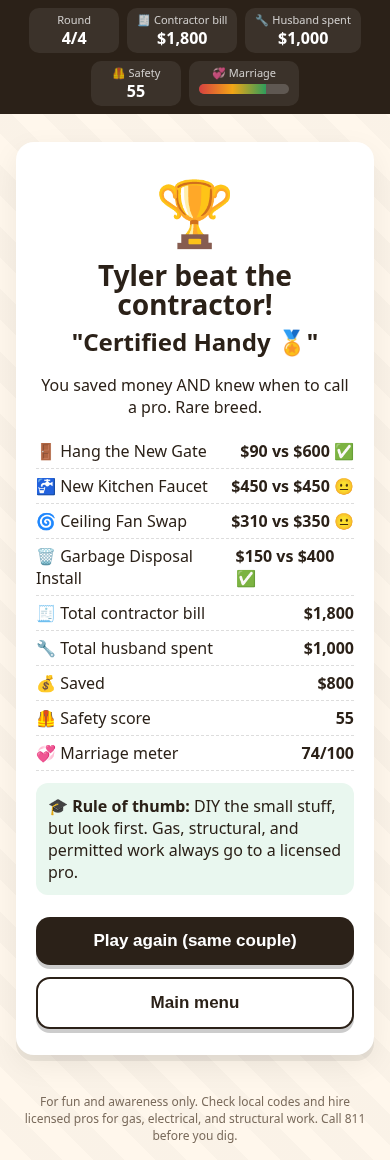
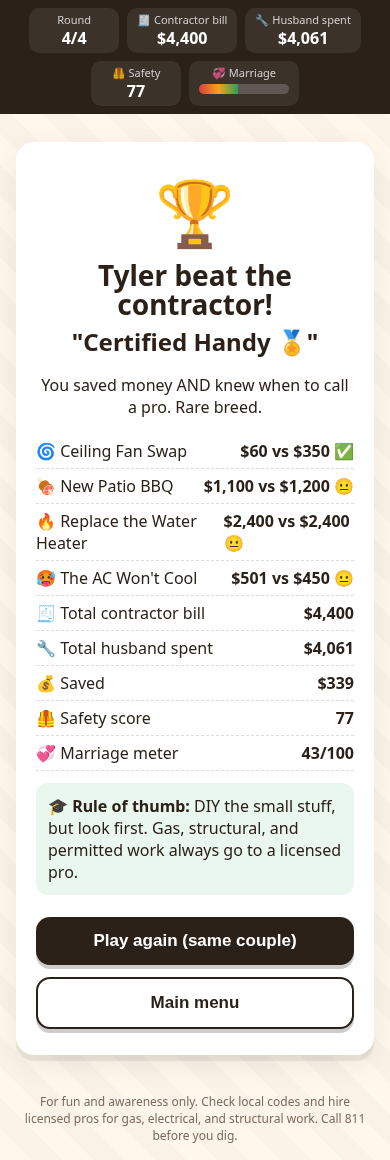
Step-by-step decision chains, AC scenario, recap order, timer wording fix

diff --git a/js/scenarios.js b/js/scenarios.js
@@ -1,83 +1,161 @@
-// Scenario cards: add more by appending objects. best: "diy" | "split" | "pro"
+// Scenario cards. Each job is a chain of steps in chronological order.
+// step: {q, ok:[text, cost, note], bad:[[text, cost, marriage, safety, feedback, fatal?]], proEnd?:true, noBail?:true}
+// proEnd: the right answer is to hand off to a pro. Diagnosis cuts the bill by `credit`.
 window.SCENARIOS = [
 {id:"drywall",em:"🕳",title:"Patch the Hallway Hole",request:"Babe, can you get someone to patch that hole in the hallway wall? The doorknob finally won.",
- quote:650,diyCost:40,splitPro:300,best:"split",
+ quote:650,
  hidden:"The drywall is damp. A slow pipe leak behind the wall has been soaking it.",
  secret:"Our water bill jumped $40 last month and nobody's been taking longer showers.",
  hint:"Something about that wall smells... off.",
  spots:[{l:"Around the hole",c:"A brown ring stain spreading out from the hole.",t:"real"},{l:"Sniff test",c:"Musty, basement-y smell. You don't have a basement.",t:"real"},{l:"Doorknob",c:"The doorknob looks smug. Not helpful.",t:"joke"},{l:"Paint can",c:"Leftover paint is a perfect match. Very tempting.",t:"herring"}],
- plans:["Cut, patch, mud, sand, paint. Done by dinner.","Find the leak first, let it dry, then patch.","Cover it with a big framed photo of the wife."],goodPlan:1,
+ steps:[
+  {q:"Tools out. What's first?",ok:["Look closely at the stain and press on the wall around the hole",0],bad:[["Cut a clean square and screw in a patch",40,-5,0,"You patched it, and the new patch is already soaking up water."],["Paint over the stain so it matches",30,-5,0,"The stain bleeds right back through by dinner."]]},
+  {q:"The wall feels damp and soft. Next?",ok:["Turn off every faucet and check whether the water meter is still moving",0],bad:[["Point a fan at it and patch tomorrow",20,-5,0,"It dried overnight... and was wet again by morning."],["Smash the wall open wider with a hammer",80,-10,-5,"Big mess, and you still don't know where the water's coming from."]]},
+  {q:"Everything's off, but the meter's leak dial is still spinning. Next?",ok:["Call a plumber to find and fix the leak",300,"pro part"],bad:[["Ignore it. It's a slow leak.",0,-10,-10,"Slow leaks turn into mold and rot. She can smell it now."],["Cut into the wall and solder the pipe yourself",150,-10,-10,"You've never soldered. Now there are two leaks."]],noBail:true},
+  {q:"The plumber fixed the leak. Next?",ok:["Let the wall dry out completely and cut out any moldy drywall",15],bad:[["Patch over it right away. It's fine.",40,-5,-5,"Wet drywall under fresh mud means bubbles and mold."]]},
+  {q:"Dry and clean. Last step?",ok:["Patch, tape, mud, sand, and paint",40],bad:[["Fill the big hole with spackle only",10,-5,0,"Spackle cracks and sinks on a hole that big. Redo."],["Hang a big framed photo over it",0,-10,0,"She knows. She always knows."]]}
+ ],
  good:"You call a plumber for the leak and patch the wall yourself once it's dry. Smooth, dry, and cheap.",
  fail:"The fresh patch bubbles and sags overnight. A mushroom sprouts from it. The kids name him Gary.",
  lesson:"Water stains and musty smells mean find and fix the leak before you patch. Patching over a leak just hides mold."},
+
 {id:"bbq",em:"🍖",title:"New Patio BBQ",request:"I bought us a fancy new grill for the patio! Can you get someone to set it up before Sunday?",
- quote:1200,diyCost:60,splitPro:1200,best:"pro",
+ quote:1200,credit:100,
  hidden:"It's a natural-gas-only grill, and there's no gas line out to the patio.",
  secret:"The box says \"NG\" in big letters. I don't know what that means but it looked important.",
  hint:"The fitting on the hose looked kinda weird to me.",
  spots:[{l:"The box label",c:"\"NATURAL GAS ONLY. Not for use with propane.\"",t:"real"},{l:"Patio wall",c:"No gas stub anywhere on the back of the house.",t:"real"},{l:"Old propane tank",c:"Half full! ...but the fitting doesn't match the grill.",t:"herring"},{l:"The neighbor",c:"Neighbor offers a beer and \"advice.\" Decline both.",t:"joke"}],
- plans:["Rig an adapter so it runs off the propane tank.","Run your own gas pipe from the water heater.","Duct tape plus a garden hose. Confidence."],goodPlan:-1,
- good:"You call a licensed gas plumber. They pull a permit, run the line, and leak-test it. Sunday burgers are safe and legal.",
- fail:"The adapter hisses. Your wife evacuates the cul-de-sac. The fire department leaves you a pamphlet and a look.",
- lesson:"Gas lines always mean a licensed pro and a permit. Never convert or rig gas appliances yourself. Smell gas? Leave and call 911 or your gas company."},
+ steps:[
+  {q:"Box is open. What's first?",ok:["Read the label and manual to see what fuel it needs",0],bad:[["Assemble everything first and figure out fuel later",0,-3,0,"Two hours in, and you still don't know what it runs on."],["Hook it to the old propane tank",0,-20,-30,"The fitting doesn't match, so you force it. Hiss. Gas leak!",true]]},
+  {q:"It says \"Natural gas only.\" Next?",ok:["Check the back of the house for a gas outlet near the patio",0],bad:[["Order an adapter online so propane fits",30,-5,-15,"Adapters don't change what fuel a grill burns. That's how fires start."],["Shut off the gas meter just in case",0,-5,-5,"Now the water heater and stove are off too. Cold showers for everyone."]]},
+  {q:"There's no gas line anywhere near the patio. Next?",ok:["Look up whether this model comes in a propane version, and check the return policy",0],bad:[["Run a long hose from the kitchen stove",0,-25,-40,"Indoor gas pipes are not extension cords. Evacuate.",true],["Buy a generic hose and guess",30,-5,-10,"Mismatched gas fittings leak. Don't guess with gas."]]},
+  {q:"You can return it for propane, or get a gas line run. Decide:",ok:["Call a licensed plumber to run a permitted gas line, or return it for a propane model",0],bad:[["Tee into the dryer's gas line with a long flex hose",0,-25,-40,"DIY gas plumbing. The fire department would like a word.",true],["Leave it in the box until Sunday and hope",0,-10,0,"Sunday comes. Still no gas. Guests get cold sandwiches."]],proEnd:true,noBail:true}
+ ],
+ good:"You figured out exactly what's needed. The licensed plumber quotes it without a diagnostic visit, pulls a permit, runs the line, and leak-tests it.",
+ fail:"Hiss. Your wife evacuates the cul-de-sac. The fire department leaves you a pamphlet and a look.",
+ lesson:"Gas lines always mean a licensed pro and a permit. Never rig or convert gas fittings. Smell gas? Leave and call 911 or your gas company."},
+
 {id:"heater",em:"🔥",title:"Replace the Water Heater",request:"The water heater's ancient and the shower keeps going cold. Can we get a new one put in?",
- quote:2400,diyCost:900,splitPro:2400,best:"pro",
+ quote:2400,
  hidden:"The raised wooden platform it sits on is rotted. A full tank weighs about 500 lb.",
  secret:"When I was getting the holiday bins down, the platform kind of... wobbled.",
  hint:"The garage has been creaking more than usual.",
  spots:[{l:"Platform wood",c:"Dark, soft wood. Your screwdriver sinks right in.",t:"real"},{l:"Floor under it",c:"Old drip stains and a little puddle.",t:"real"},{l:"Model sticker",c:"Made the year you graduated. Respect.",t:"joke"},{l:"Hardware store ad",c:"\"Install it yourself in 2 hours!\" Sure.",t:"herring"}],
- plans:["Drop the new tank on the old platform. It held so far.","Shim the platform with some scrap 2x4s.","Strap the tank to the wall and pray."],goodPlan:-1,
- good:"You call a pro. They rebuild the platform to hold the weight, then install, vent, and permit the new heater.",
- fail:"The new tank leans like the Tower of Pisa. The cat refuses to enter the garage ever again.",
- lesson:"Anything holding a lot of weight has to be solid first. Water heater installs usually need a permit (gas, venting, earthquake straps), so this one goes to a pro."},
+ steps:[
+  {q:"Before touching anything, what first?",ok:["Turn the heater's gas valve to OFF and close the cold water supply valve",0],bad:[["Start unhooking the water pipes",150,-15,-10,"No shutoff. Hot water sprays all over the garage."],["Flip the garage light breaker off",0,-3,-5,"Wrong thing. A gas heater is still on gas."]]},
+  {q:"Gas and water are off. Next?",ok:["Hook a hose to the drain valve, run it outside, and drain the tank",0],bad:[["Tip the tank over to dump it",100,-10,-10,"Forty gallons of rusty water. The cat has left the chat."],["Skip draining. Just muscle it out.",80,-10,-10,"A full tank weighs about 500 lb. Your back has filed a complaint."]]},
+  {q:"Tank's drained. Who disconnects the gas and vent?",ok:["Have a licensed plumber disconnect the gas line and vent and pull the old tank (permit)",400,"pro part"],bad:[["Unscrew the gas line yourself with a pipe wrench",0,-15,-25,"Gas connections are licensed-pro work. You get a stern lecture and a do-over."],["Leave the gas line hooked up and wiggle the tank out",0,-20,-35,"You bend the gas connector. Hiss. Everybody out.",true]],noBail:true},
+  {q:"Old tank is out. The platform is soft and rotted. Next?",ok:["Tear it out and rebuild it solid enough for 500+ lb (or have the pro do it)",180],bad:[["Shim the old platform with scrap 2x4s",30,-10,-30,"The new tank leans like the Tower of Pisa.",true],["Set the new tank right on the old platform",0,-10,-30,"Crunch. The platform folds.",true]]},
+  {q:"New platform is solid. Install time:",ok:["Licensed plumber sets the tank, connects gas and vent, adds earthquake straps, and leak-tests",1100,"pro part"],bad:[["Connect it yourself to save money",0,-15,-25,"Gas plus venting plus a permit is not a weekend project. Do-over."],["Reuse the old flex gas connector to save $20",0,-10,-20,"Old gas connectors can crack. Pros install new ones. Do-over."]],noBail:true},
+  {q:"Installed. Turning it back on:",ok:["Fill the tank with water first (open a hot faucet until it runs steady), then light it per the instructions",0],bad:[["Light it right away, then fill it",300,-10,-10,"Firing an empty tank cooks it. New tank, new problem."]]}
+ ],
+ good:"You did the safe, easy parts yourself (shutoffs, draining, rebuilding the platform) and paid a pro for the gas work. Hot showers are back.",
+ fail:"Crunch. The new tank leans like the Tower of Pisa. The cat refuses to enter the garage ever again.",
+ lesson:"Shut off gas and water first. Anything holding a lot of weight has to be solid. Gas and venting connections, plus the permit, belong to a licensed plumber."},
+
 {id:"fan",em:"🌀",title:"Ceiling Fan Swap",request:"The bedroom is SO hot. Can someone swap that old light for a ceiling fan?",
- quote:350,diyCost:60,splitPro:250,best:"diy",
+ quote:350,
  hidden:"The ceiling box is a light-only plastic box. It can't hold a spinning fan.",
  secret:"The old light was super light. Like, I lifted it with one finger.",
  hint:"I bet that ceiling box is older than us.",
  spots:[{l:"Ceiling box",c:"Small plastic box. No \"rated for fan support\" marking.",t:"real"},{l:"Fan box",c:"Instructions: \"Mount only to a fan-rated box.\"",t:"real"},{l:"Wall switch",c:"Works great. Also has a sticker of a dinosaur.",t:"joke"},{l:"Wire colors",c:"They look normal, which feels like the whole story. It isn't.",t:"herring"}],
- plans:["Hang it on the existing box. It's only a few pounds.","Breaker OFF, install a fan-rated brace box, then hang the fan.","Leave the power on so you can see what you're doing."],goodPlan:1,
+ steps:[
+  {q:"Ladder's set up. First?",ok:["Turn off that circuit's breaker at the panel",0],bad:[["Just flip the wall switch off",0,-5,-15,"Zap! Switches don't always kill every wire. Go to the breaker."],["Leave the power on so you can see",0,-20,-35,"Live wires and a ladder. Ambulance chase.",true]]},
+  {q:"Breaker's off. Next?",ok:["Check the wires with a non-contact voltage tester",0],bad:[["Touch the wires quickly to check",0,-20,-35,"Never test wires with your fingers.",true],["Trust the breaker label",0,-3,-10,"The label was wrong. Lucky you hesitated."]]},
+  {q:"Confirmed dead. Old light is down. Next?",ok:["Check whether the ceiling box is rated for fan support",0],bad:[["Hang the fan right away",0,-5,-10,"It wobbles hard. Something's not right up there."]]},
+  {q:"The box is plastic, light-only. Next?",ok:["Install a fan-rated brace box between the joists",45],bad:[["Add more screws to the plastic box",5,-10,-30,"The fan helicopters onto the bed.",true],["Hang it anyway and hope",0,-10,-30,"Wobble... wobble... THUD.",true]]},
+  {q:"Fan-rated box is in. Next?",ok:["Wire the fan per its instructions with wire nuts and hang it",15],bad:[["Twist the wires together and tape them",0,-5,-15,"Taped connections come loose and get hot. Redo it with wire nuts."]]},
+  {q:"Last step?",ok:["Breaker back on, test every speed, check for wobble",0],bad:[["Crank it to high and walk away",0,-3,0,"It hums a little. You should've tested it first."]]}
+ ],
  good:"Breaker off, fan-rated brace in, fan hung. It spins quietly with zero wobble. Cool breeze, cooler husband.",
  fail:"The fan wobbles, then gently helicopters onto the bed. Nobody was hurt except your pride.",
  lesson:"Fans need a fan-rated box. Always turn the breaker off and test that the power is off first. Not sure? Call an electrician."},
+
 {id:"faucet",em:"🚰",title:"New Kitchen Faucet",request:"I found the PERFECT faucet online. Can we have a plumber put it in?",
- quote:450,diyCost:70,splitPro:300,best:"diy",
+ quote:450,
  hidden:"The shutoff valve under the sink is corroded and stuck. It could snap off.",
  secret:"There's green crusty stuff on the pipes under the sink. I just closed the cabinet.",
  hint:"Under the sink has been a little... damp?",
  spots:[{l:"Shutoff valve",c:"Green crust. The handle won't budge by hand.",t:"real"},{l:"Cabinet floor",c:"A slow drip has warped the cabinet bottom.",t:"real"},{l:"Old faucet",c:"Hard water has given it a lovely beard.",t:"joke"},{l:"Pliers",c:"\"Just crank the valve harder,\" say the pliers.",t:"herring"}],
- plans:["Crank the stuck valve with pliers and go.","Shut off the main water, replace the bad valve, then install the faucet.","Swap the faucet with the water still on. Fast hands!"],goodPlan:1,
- good:"Main off, new valve in, faucet installed, leak-checked. The sink looks magazine-ready.",
+ steps:[
+  {q:"Under the sink. First?",ok:["Clear out the cabinet and look at the shutoff valves",0],bad:[["Start unscrewing the old faucet",150,-15,-5,"The water was still on. Indoor fountain!"]]},
+  {q:"The shutoff is crusty and won't turn by hand. Next?",ok:["Find the home's main water shutoff and close it",0],bad:[["Crank the valve with big pliers",200,-15,-5,"The valve snaps off. Geyser. She's filming."]]},
+  {q:"Main is off. Next?",ok:["Open the kitchen faucet to drain the lines and relieve pressure",0],bad:[["Cut the supply lines right away",30,-5,0,"Pipe water splashes in your face. Minor, but rude."]]},
+  {q:"Lines are drained. Next?",ok:["Replace the corroded shutoff valves",25],bad:[["Leave the old valves. They're probably fine.",0,-5,-5,"Next time something leaks, you won't be able to shut it off."]]},
+  {q:"New valves are in. Next?",ok:["Remove the old faucet and install the new one per the instructions",15],bad:[["Install the new faucet over the old gasket gunk",20,-5,0,"Drip, drip. Clean the surface and redo it."]]},
+  {q:"Last step?",ok:["Turn the main back on slowly and check every connection for leaks",0],bad:[["Turn the main on and leave for work",120,-10,0,"A tiny drip all day. Hello, warped cabinet."]]}
+ ],
+ good:"Main off, new valves in, faucet installed, leak-checked. The sink looks magazine-ready.",
  fail:"The valve snaps off. Indoor fountain! Your wife films it for the group chat.",
  lesson:"Know where your main shutoff is before any plumbing job. Replace corroded valves first. If anything feels stuck, don't force it."},
+
 {id:"gate",em:"🚪",title:"Hang the New Gate",request:"Can we get the side gate replaced? The dog keeps escaping to visit the neighbors.",
- quote:600,diyCost:90,splitPro:400,best:"diy",
+ quote:600,
  hidden:"The fence post the gate hangs on is rotted at ground level.",
  secret:"The post kinda leans. I've been blaming the dog.",
  hint:"That whole fence line looks tired.",
  spots:[{l:"Post base",c:"The wood crumbles where it meets the dirt.",t:"real"},{l:"Push test",c:"The post rocks back and forth like a loose tooth.",t:"real"},{l:"The dog",c:"Looks guilty. Is innocent (this time).",t:"joke"},{l:"New hinges",c:"Shiny and strong. Problem solved? Nope.",t:"herring"}],
- plans:["Screw the new gate to the old post.","Call 811 to mark utilities, dig and reset the post in concrete, then hang the gate.","Prop it up with a brick."],goodPlan:1,
+ steps:[
+  {q:"New gate's here. First?",ok:["Push on the hinge post and check its base for rot",0],bad:[["Screw the new hinges into the old post",30,-10,-20,"The gate hangs for 3 seconds. Then the fence lies down.",true]]},
+  {q:"The post is rotted at the ground. Before digging?",ok:["Call 811 (free) to get underground utilities marked",0],bad:[["Start digging right away",150,-10,-20,"Your shovel finds the sprinkler line. Could've been worse. Much worse."]]},
+  {q:"Lines are marked, all clear. Next?",ok:["Dig out the old post and its old concrete",0],bad:[["Sink a new post right beside the rotten one",40,-5,0,"Now the gate doesn't line up with anything."]]},
+  {q:"Hole's clear. Next?",ok:["Set a new post in concrete, plumb it, and let it cure",60],bad:[["Backfill with loose dirt",20,-5,-5,"It leans again within a week."],["Hang the gate the same day",20,-5,0,"The concrete wasn't set. Now the post is crooked forever."]]},
+  {q:"Post is cured. Last step?",ok:["Hang the gate, then adjust the hinges and latch",30],bad:[["Hang it and skip the latch",0,-10,0,"The dog escapes again. Then she does."]]}
+ ],
  good:"You call 811, set a new post in concrete, and hang the gate. It swings like butter. The dog is grounded.",
  fail:"The gate hangs fine for 3 seconds. Then the whole fence section lies down for a nap.",
  lesson:"Hardware is only as strong as what it's attached to. Call 811 before you dig so you don't hit buried lines."},
+
 {id:"disposal",em:"🗑",title:"Garbage Disposal Install",request:"I want a garbage disposal. Can we get someone out to install one?",
- quote:400,diyCost:150,splitPro:300,best:"diy",
+ quote:400,
  hidden:"The new disposal's dishwasher knockout plug was never removed.",
  secret:"The dishwasher hose goes right into where the disposal will be.",
  hint:"Read the tiny manual. Just trust me.",
  spots:[{l:"Disposal inlet",c:"A plastic plug blocks the dishwasher inlet.",t:"real"},{l:"Manual p.4",c:"\"Remove knockout plug if connecting a dishwasher.\"",t:"real"},{l:"The sink",c:"Has seen things. Mostly spaghetti.",t:"joke"},{l:"Plumber's putty",c:"You'll need it, but that's not the catch.",t:"herring"}],
- plans:["Hook it all up and run the dishwasher.","Power OFF, knock out the plug, connect it, then test for leaks.","Plug it in and test it with a spoon. For science."],goodPlan:1,
+ steps:[
+  {q:"Box is open. First?",ok:["Make sure the outlet or circuit under the sink is OFF (unplug, or flip the breaker)",0],bad:[["Start working with everything powered",0,-15,-25,"Electricity plus water plus a blender. No.",true]]},
+  {q:"Power's off. Next?",ok:["Disconnect the old sink drain and remove the old strainer",0],bad:[["Mount the disposal under the old strainer",20,-5,0,"Doesn't fit. Take it all apart again."]]},
+  {q:"Drain is open. Next?",ok:["Install the new sink flange with putty and the mounting ring",0],bad:[["Hang the disposal with zip ties",30,-10,-5,"It vibrates loose and drips. Nope."]]},
+  {q:"Mount's ready. Before hooking up the dishwasher?",ok:["Knock out the dishwasher inlet plug and remove the loose piece",0],bad:[["Connect the dishwasher hose as-is",80,-15,0,"The dishwasher can't drain. Soapy flood."]]},
+  {q:"Plug's out. Next?",ok:["Hang the disposal, then connect the drain pipe and dishwasher hose",0],bad:[["Run the dishwasher to test before connecting the drain",100,-15,0,"Water everywhere. Foam party, and nobody was invited."]]},
+  {q:"Last step?",ok:["Restore power, run water, and check every joint for leaks",0],bad:[["Test it with a spoon inside",50,-10,-10,"Ka-CHUNK. RIP spoon. Never put your hand or utensils in there."]]}
+ ],
  good:"Power off, plug knocked out, everything connected and leak-tested. It works perfectly. You are a kitchen god.",
  fail:"The dishwasher floods the kitchen with soapy water. Foam party, and nobody was invited.",
  lesson:"Read the manual and do the small steps. Kill the power before working on anything electrical, and leak-test before you walk away."},
+
 {id:"shed",em:"🛖",title:"Backyard Shed Kit",request:"Can we pay someone to put together that shed kit? It's been in the garage for 6 months.",
- quote:900,diyCost:120,splitPro:600,best:"diy",
+ quote:900,
  hidden:"The spot is sloped and soft, and a sprinkler line is buried right there.",
  secret:"That corner turns into a pond every time it rains.",
  hint:"The lawn guy said not to dig there. Or was it 'dig there'? Hmm.",
  spots:[{l:"Ground",c:"Squishy and slopes downhill. Puddle marks.",t:"real"},{l:"Sprinkler head",c:"Right in the middle of the shed footprint.",t:"real"},{l:"Kit box",c:"\"Level ground required.\" Also 400 screws.",t:"herring"},{l:"Squirrel",c:"Has claimed this land. Will fight.",t:"joke"}],
- plans:["Build it right on the grass. It'll settle.","Mark the lines (call 811), level and compact a base, build it, and anchor it.","Build it on the trampoline for bounce."],goodPlan:1,
+ steps:[
+  {q:"Shed day. First?",ok:["Check the spot: is it level, firm, and well-drained?",0],bad:[["Build it right on the grass",60,-10,-10,"The shed slides 2 feet downhill.",true]]},
+  {q:"It's soft and sloped. Before digging?",ok:["Call 811 and find the sprinkler lines",0],bad:[["Start digging the base",80,-5,-10,"Sprinkler geyser! Also, you got lucky it wasn't a power line."]]},
+  {q:"Lines are marked. Next?",ok:["Lay a compacted, level gravel base (or blocks) away from the lines",120],bad:[["Toss down some plywood to level it",40,-5,-5,"The plywood rots in one season."]]},
+  {q:"Base is level. Next?",ok:["Build the floor frame and check it's level and square",0],bad:[["Start with the walls to see progress",30,-5,0,"Nothing lines up. Take it apart."]]},
+  {q:"Floor is square. Next?",ok:["Put up the walls and roof per the instructions",0],bad:[["Skip the roof bracing pieces",40,-5,-10,"The first windy day says no."]]},
+  {q:"Last step?",ok:["Anchor the shed to the base so wind can't move it",20],bad:[["Skip the anchors. It's heavy.",80,-10,-10,"A windstorm moves it to the neighbor's yard."]]}
+ ],
  good:"You level the base, avoid the sprinkler line, and anchor the shed. It's rock solid. The squirrel concedes.",
  fail:"The shed slides 2 feet downhill. A sprinkler geyser erupts at the grand reveal.",
- lesson:"A level, solid base comes first. Know what's buried before you dig or anchor."}
+ lesson:"A level, solid base comes first. Know what's buried before you dig or anchor."},
+
+{id:"ac",em:"🥵",title:"The AC Won't Cool",request:"It's 98° and the house is an oven! The AC isn't working. Call someone NOW.",
+ quote:450,credit:120,
+ hidden:"The outdoor unit (condenser) keeps tripping its breaker. That points to an electrical or part failure inside, which is HVAC-tech work.",
+ secret:"I heard a loud click outside and then the fan outside stopped.",
+ hint:"Have you even looked at the thermostat?",
+ spots:[{l:"Thermostat",c:"Set to Cool at 72°. Air is blowing inside, but it's warm.",t:"real"},{l:"Outdoor unit",c:"Dead silent. Not humming, not spinning.",t:"real"},{l:"Air filter",c:"A little dusty. Not the main villain today.",t:"herring"},{l:"The dog",c:"Lying on the tile. Judging you.",t:"joke"}],
+ steps:[
+  {q:"House is hot. First?",ok:["Check the thermostat: set to Cool, temp below room temp, batteries good",0],bad:[["Buy a new thermostat",60,-5,0,"The new thermostat says the same thing: the inside fan runs, but the air is warm."],["Buy a refrigerant can from the auto store",50,-10,-15,"Home AC refrigerant work takes EPA certification. That can's for cars."]]},
+  {q:"The indoor fan blows, but the air is warm. Next?",ok:["Go outside and see if the condenser is running",0],bad:[["Replace the air filter and wait an hour",15,-5,0,"Clean filter, still warm air. Good habit, wrong problem."],["Turn the thermostat down to 60",0,-5,0,"Colder setting, same warm air. Plus a higher bill."]]},
+  {q:"The condenser is silent. Next?",ok:["Check the breaker panel for a tripped AC breaker",0],bad:[["Pop the condenser panel and poke the capacitor",0,-20,-40,"High voltage and stored charge inside. Hospital trip.",true],["Hose it down to cool it off",0,-5,0,"Wet but still silent."]]},
+  {q:"The AC breaker is tripped. Next?",ok:["Reset it once, firmly, and watch",0],bad:[["Flip it on and off a bunch of times",0,-5,-20,"Hammering a tripping breaker can damage parts. Once is the limit."]]},
+  {q:"It trips again a few minutes later. Next?",ok:["Leave it off and call an HVAC tech. Tell them exactly what you found.",0],bad:[["Put in a bigger breaker so it stops tripping",0,-25,-45,"The breaker was protecting the wires. Now they get hot instead. Fire risk!",true],["Keep resetting it until it stays on",0,-10,-25,"Burning smell. Stop!"]],proEnd:true,noBail:true}
+ ],
+ good:"Your diagnosis saved the tech time: thermostat fine, indoor fan fine, condenser tripping its breaker. They head straight to the outdoor unit, and the bill drops.",
+ fail:"Smoke curls out of the condenser. Now it's an emergency weekend call at double the rate.",
+ lesson:"Check the simple stuff (thermostat settings, breaker). Reset a tripped breaker ONCE. If it trips again, something's wrong: leave it off and call a pro."}
 ];

diff --git a/js/game.js b/js/game.js
@@ -28,7 +28,7 @@ function title(){S=null;view(`<div class="card" style="text-align:center">
  on("#start",()=>{newGame($("#wn").value.trim(),$("#hn").value.trim());nextRound()});on("#how",howTo)}
 function howTo(){view(`<div class="card"><h2>How to play</h2>
  <p><b>👩 Wife:</b> pick a project, set the budget and the "Call the Pro" timer, then send him a note. You see one secret clue, and you can share it, hint at it, keep quiet, or <i>bluff</i>.</p>
- <p><b>👨 Husband:</b> inspect up to ${MAX_INSPECT} spots before the timer runs out, then choose: <b>DIY it</b>, <b>DIY plus a pro for the risky part</b>, or <b>call the pro</b>. Every job hides a surprise.</p>
+ <p><b>👨 Husband:</b> inspect up to ${MAX_INSPECT} spots before the timer runs out, then call the pro or take your ONE shot: work the job step by step, in the right order. Some jobs end with "call a pro" after you figure out the problem, and good diagnosis cuts the bill. Every job hides a surprise.</p>
  <p><b>🧾 The score:</b> the contractor's bill keeps running. Spend less than it, stay safe, and keep the 💞 Marriage Meter up. Unsafe DIY never counts as a win, even when it "works."</p>
  <button class="btn full" id="back">Got it</button></div>`);on("#back",title)}
 
@@ -75,50 +75,67 @@ function hubInspect(){const c=S.cur;c.left=c.timer;c.timedOut=false;
 function startClock(){stopTimer();const c=S.cur;timerId=setInterval(()=>{c.left--;const el=$("#clock");if(el){el.textContent="⏱ "+c.left+"s";el.classList.toggle("low",c.left<=10)}
  if(c.left<=10&&c.left>0)beep("tick");if(c.left<=0){stopTimer();c.timedOut=true;resolve("pro")}},1000)}
 function hubDecide(){const c=S.cur;const keep=c.left;
- view(`<div class="card role-hub"><div class="timer" id="clock">⏱ ${keep}s</div><h2>${c.sc.em} Your ONE shot. What's the move?</h2>
+ view(`<div class="card role-hub"><div class="timer" id="clock">⏱ ${keep}s</div><h2>${c.sc.em} Your ONE shot. Ready?</h2>
+ <p>DIY means you work the job step by step. Wrong moves cost money, time, and marriage points, and a dangerous one ends the job.</p>
  <div class="opts">
-  <button class="btn" data-a="diy">🔧 DIY it myself (cost about ${money(c.sc.diyCost)})</button>
-  <button class="btn" data-a="split">🤝 DIY my part, pay a pro for the risky part</button>
+  <button class="btn" data-a="diy">🔧 Take a shot at it myself</button>
   <button class="btn" data-a="pro">📞 Call the pro now (${money(c.sc.quote)})</button>
  </div></div>`);c.left=keep;startClock();
- on(".opts button",el=>{const a=el.dataset.a;if(a==="diy")hubPlan();else resolve(a)})}
-function hubPlan(){const c=S.cur;const keep=c.left;
- view(`<div class="card role-hub"><div class="timer" id="clock">⏱ ${keep}s</div><h2>🔧 Pick your game plan</h2>
- <div class="opts">${c.sc.plans.map((p,i)=>`<button class="btn" data-p="${i}">${i+1}. ${esc(p)}</button>`).join("")}</div>
- <button class="btn ghost" id="back">← Rethink</button></div>`);c.left=keep;startClock();
- on("[data-p]",el=>resolve("diy",+el.dataset.p));on("#back",hubDecide)}
+ on("[data-a=diy]",()=>{stopTimer();c.step=0;c.acc=0;c.mar=0;c.saf=0;c.mistakes=0;c.picks=c.sc.steps.map(()=>[]);c.removed=c.sc.steps.map(()=>[]);c.fb=null;chain()});
+ on("[data-a=pro]",()=>resolve("pro"))}
+function stepOptions(i){const c=S.cur,st=c.sc.steps[i];if(!c.opts)c.opts={};
+ if(!c.opts[i]){const o=[{t:st.ok[0],k:"ok"}].concat(st.bad.map((b,j)=>({t:b[0],k:"bad",j})));if(!st.noBail&&!st.proEnd)o.push({t:"📞 Call a pro now",k:"bail"});c.opts[i]=shuffle(o)}
+ return c.opts[i].filter((o,n)=>!c.removed[i].includes(n)).map(o=>({...o,n:c.opts[i].indexOf(o)}))}
+function chain(){const c=S.cur,sc=c.sc,st=sc.steps[c.step];
+ const dots=sc.steps.map((_,i)=>i<c.step?"🟢":i===c.step?"🔵":"⚪").join(" ");
+ view(`<div class="card role-hub"><p style="text-align:center">${dots}<br><small>Step ${c.step+1} of ${sc.steps.length} · spent so far ${money(c.acc)}</small></p>
+ <h2>${sc.em} ${esc(st.q)}</h2>
+ ${c.fb?`<p class="note ${c.fb.ok?"":"shake"}">${c.fb.ok?"✅":"❌"} ${esc(c.fb.t)}</p>`:""}
+ <div class="opts">${stepOptions(c.step).map(o=>`<button class="btn" data-n="${o.n}">${esc(o.t)}</button>`).join("")}</div></div>`);
+ on("[data-n]",el=>pickStep(+el.dataset.n))}
+function pickStep(n){const c=S.cur,sc=c.sc,st=sc.steps[c.step],o=c.opts[c.step][n];
+ c.picks[c.step].push({t:o.t,k:o.k});
+ if(o.k==="bail")return resolve("bail");
+ if(o.k==="ok"){c.acc+=st.ok[1]||0;c.saf+=2;
+  if(st.proEnd)return resolve("proEnd");
+  c.step++;c.fb={ok:true,t:st.ok[2]==="pro part"?`Good call. Pro handles that part (${money(st.ok[1])}).`:"Nice. On to the next step."};
+  if(c.step>=sc.steps.length)return resolve("done");beep("good");return chain()}
+ const b=st.bad[o.j];c.acc+=b[1];c.mar+=b[2];c.saf+=b[3];c.mistakes++;beep("bad");
+ if(b[5]){c.fatalFb=b[4];return resolve("fatal")}
+ c.removed[c.step].push(n);c.fb={ok:false,t:b[4]+(b[1]?` (−${money(b[1])})`:"")};chain()}
 
-function resolve(choice,plan){stopTimer();const c=S.cur,sc=c.sc;let spent,safety,mar,kind,text;
- const best=sc.best;
- if(choice==="pro"){spent=sc.quote;
-  if(best==="pro"){safety=20;mar=10;kind="good";text=sc.good}
-  else{safety=5;mar=-5;kind="meh";text=`The pro shows up, finds the issue, fixes it right, and charges full price. Safe, but he could've DIY'd this one.`}
-  if(c.timedOut){mar-=5;text="⏰ Time's up! She called the pro herself. "+text}}
- else if(choice==="split"){
-  if(best==="split"){spent=sc.diyCost+sc.splitPro;safety=15;mar=10;kind="good";text=sc.good}
-  else if(best==="pro"){spent=Math.round(sc.diyCost*.5)+sc.quote;safety=10;mar=0;kind="meh";text="You start, realize it's over your head, and call the pro anyway. Safe call, but you paid for the parts AND the pro."}
-  else{spent=sc.diyCost+sc.splitPro;safety=10;mar=-3;kind="meh";text="The pro does a small part you could've done yourself. Safe, just pricier than needed."}}
- else{ // diy
-  if(best==="diy"&&plan===sc.goodPlan){spent=sc.diyCost;safety=10;mar=15;kind="good";text=sc.good}
-  else{const danger=best!=="diy";spent=sc.diyCost+Math.round(sc.quote*(danger?1.4:0.6));safety=danger?-30:-10;mar=danger?-20:-10;kind="bad";
-   text=sc.fail+" Then the contractor comes out anyway, and charges extra to fix the fix.";if(danger)S.unsafe++}}
- const over=spent>c.budget&&choice!=="pro";if(over)mar-=8;
+function resolve(choice){stopTimer();const c=S.cur,sc=c.sc;let spent,safety,mar,kind,text;
+ const done=c.step||0,acc=c.acc||0;mar=c.mar||0;safety=c.saf||0;
+ if(choice==="pro"){spent=sc.quote;safety+=5;mar-=5;kind="meh";
+  text=c.timedOut?"⏰ Time's up! She called the pro herself. They fix it right, but you pay full price and never learn what was wrong.":"You call the pro right away. Safe, but you pay full price, including their diagnostic fee.";
+  if(c.timedOut)mar-=5}
+ else if(choice==="bail"){const cr=Math.round((sc.credit||0)*done/sc.steps.length);spent=acc+sc.quote-cr;safety+=5;mar-=3;kind="meh";
+  text=`You stopped partway and called a pro. Safe, but you paid for your attempt AND the full job${cr?` (minus ${money(cr)} for the diagnosis you'd already done)`:""}.`}
+ else if(choice==="proEnd"){const cr=sc.credit||0;spent=acc+sc.quote-cr;safety+=15;mar+=10;kind=c.mistakes?"meh":"good";
+  text=sc.good+(cr?` Your diagnosis knocked ${money(cr)} off the bill.`:"")}
+ else if(choice==="done"){spent=acc;safety+=10;mar+=10;kind=c.mistakes>1?"meh":"good";text=sc.good+(c.mistakes?` (${c.mistakes} wrong move${c.mistakes>1?"s":""} along the way cost you.)`:"")}
+ else{spent=acc+Math.round(sc.quote*1.3);kind="bad";S.unsafe++;mar-=10;
+  text=c.fatalFb+" Job over. The contractor comes out anyway, and charges extra to fix the fix."}
+ const over=spent>c.budget&&choice!=="pro"&&choice!=="proEnd";if(over)mar-=8;
  const realSeen=c.opened.some(i=>sc.spots[i].t==="real");if(realSeen)safety+=5;
- const bluffWin=c.msg==="bluff"&&kind==="bad";if(c.msg==="share"&&kind==="good")mar+=5;
+ const bluffWin=c.msg==="bluff"&&(kind==="bad"||c.mistakes>=2);if(c.msg==="share"&&kind==="good")mar+=5;
  S.bill+=sc.quote;S.spent+=spent;S.safety+=safety;S.marriage=Math.max(0,Math.min(100,S.marriage+mar));
  S.log.push({t:sc.title,em:sc.em,quote:sc.quote,spent,kind});
  beep(kind==="bad"?"bad":"good");
+ const seq=sc.steps.map((st,i)=>{const p=(c.picks||[])[i]||[];const wrong=p.filter(x=>x.k!=="ok");const got=p.some(x=>x.k==="ok");
+  return `<li><b>${got?"✅":p.length?"❌":"⏭"} ${esc(st.ok[0])}</b>${wrong.map(w=>`<br><small style="color:var(--bad)">You picked: ${esc(w.t)}</small>`).join("")}</li>`}).join("");
  view(`<div class="card result-${kind} ${kind==="bad"?"shake":""}">
  <div class="cut">${sc.em} ${kind==="good"?"✨🏆":kind==="bad"?"💥😱":"🧾😐"}</div>
- <h2>${kind==="good"?"Nailed it!":kind==="bad"?"Oh no.":"Safe... but pricey."}</h2>
+ <h2>${kind==="good"?"Nailed it!":kind==="bad"?"Oh no.":"Got there... the expensive way."}</h2>
  <p><b>The hidden issue:</b> ${esc(sc.hidden)}</p><p>${esc(text)}</p>
  ${bluffWin?`<p class="note">😈 ${esc(S.wife)}'s bluff worked. She'll never let you forget this.</p>`:""}
  <div class="row"><span>🧾 Contractor quote</span><b>${money(sc.quote)}</b></div>
  <div class="row"><span>🔧 You actually spent</span><b>${money(spent)}</b></div>
  <div class="row"><span>💰 Saved vs contractor</span><b style="color:${sc.quote-spent>=0?"var(--good)":"var(--bad)"}">${money(sc.quote-spent)}</b></div>
- <div class="row"><span>🦺 Safety</span><b>${safety>=0?"+":""}${safety}${realSeen?" (incl. +5 for finding a real clue)":""}</b></div>
+ <div class="row"><span>🦺 Safety</span><b>${safety>=0?"+":""}${safety}</b></div>
  <div class="row"><span>💞 Marriage</span><b>${mar>=0?"+":""}${mar}${over?" (over budget!)":""}</b></div>
- <div class="lesson">🎓 <b>Real-world takeaway:</b> ${esc(sc.lesson)} <br><small>Best move: <b>${{diy:"DIY it, done right",split:"DIY your part and hire a pro for the risky part",pro:"Call a licensed pro"}[best]}</b></small></div>
+ <div class="lesson">🛠 <b>The right order:</b><ol style="margin:6px 0 0;padding-left:20px">${seq}</ol></div>
+ <div class="lesson">🎓 <b>Real-world takeaway:</b> ${esc(sc.lesson)}</div>
  <p></p><button class="btn full" id="next">${S.round>=ROUNDS?"See final results 🏁":"Next project ▶"}</button></div>`);
  on("#next",nextRound)}
 

diff --git a/DESIGN.md b/DESIGN.md
@@ -73,3 +73,10 @@ Conservative by design. Gas work, structural fixes, and permitted installs (like
 - **Creativity:** asymmetric marriage comedy plus a bluff mechanic.
 - **Usefulness:** real homeowner lessons about when to DIY and when to call a pro.
 - **Polish:** recap cards, sound, mobile layout.
+
+## Update (Oct 16): step-by-step decision chains
+After playtesting, the single "pick a plan" choice was replaced. Each job is now a **chain of 3–6 chronological steps**, each with 3–4 shuffled options: one correct next step, plus wrong-order or wrong moves, and sometimes "call a pro now."
+- A wrong pick adds a cost and a marriage/safety penalty, shows a short feedback line, and the player tries again. A **dangerous** pick (forcing a gas fitting, touching live wires, installing a bigger breaker) ends the job: the contractor fixes the fix at 1.3× the quote.
+- Some chains end correctly with **calling a pro after diagnosis** (patio BBQ gas line, AC condenser that keeps tripping its breaker). Good diagnosis takes a credit off the bill (the saved diagnostic fee). Gas connections are always a licensed-pro step. Resetting a breaker once is fine, and repeated trips mean call a pro.
+- Added a 9th scenario, **"The AC Won't Cool":** thermostat → condenser silent → tripped breaker → reset once → trips again → call an HVAC tech.
+- The recap shows the correct order next to the player's wrong picks.

diff --git a/README.md b/README.md
@@ -9,8 +9,8 @@ Every "simple" job hides an everyday homeowner surprise: a leak behind the drywa
 ## How to play
 1. **Wife:** pick a project, set the DIY budget and the "Call the Pro" timer, then leave a note. You see one secret clue, and you can share it, hint at it, keep quiet, or bluff.
 2. **Pass the device.**
-3. **Husband:** inspect up to 3 spots before the timer runs out, then choose: DIY it (pick a game plan), DIY your part and hire a pro for the risky part, or call the pro.
-4. **Recap:** see the hidden issue, the costs, and the real-world lesson.
+3. **Husband:** inspect up to 3 spots before the timer runs out, then call the pro, or take your ONE shot and work the job **step by step in the right order** (shutoffs first!). Each step has 3–4 options. Wrong moves cost money, time, and marriage points, and dangerous ones end the job. Some jobs end correctly with "call a pro" after you diagnose the problem, and your diagnosis cuts the bill.
+4. **Recap:** see the hidden issue, the costs, the correct step order next to your picks, and the real-world lesson.
 5. After 4 rounds, the husband wins if he spent less than the contractor's total bill **with zero unsafe attempts**. You also get scores for 🦺 Safety and the 💞 Marriage Meter, plus a final title.
 
 No install. Runs in any modern browser (mobile-friendly). Plain HTML/CSS/JS. Scenarios live in `js/scenarios.js`.
